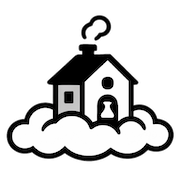
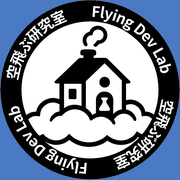
ロゴアイコンを青バッジ版に差し替え アプリ構成の更新とコメント内タグの修正

diff --git a/ja/index.html b/ja/index.html
@@ -3,7 +3,13 @@
   「これはHTML5で書かれたWebページです」とブラウザに伝える宣言です。
   この行がないとブラウザが古い互換モードで描画し、レイアウトが崩れることがあります。
 -->
-<!-- <html> タグ：ページ全体を囲む最外側のタグ
+<!-- 変更: コメント内に書いていた生のタグ（山かっこ付き）を、タグ名だけの表記に改めました。
+     理由: 正規表現でHTMLを走査するツール（SNSのリンク展開ボットや一部のSEOクローラー）は
+           コメントを読み飛ばさないため、コメント内のタグを本物と誤認することがあります。
+           ブラウザの解釈には影響しませんが、誤読の芽を残さないための予防措置です。
+           以前ボディ終了タグをコメント内に書いて不具合が出た件と、同じ対処方針です。
+           このコメント自身も同じ轍を踏まないよう、タグは山かっこを使わずに書いています。 -->
+<!-- html タグ：ページ全体を囲む最外側のタグ
   - lang="ja"       → このページの主要言語が日本語であることを宣言。
                       スクリーンリーダー（視覚障害者向け読み上げソフト）や
                       翻訳ツールが正しく動作するために重要。
@@ -11,7 +17,8 @@
   - id="top"        → フッターの「↑ TOP」リンクから #top へ戻るためのアンカー。
 -->
 <html lang="ja" prefix="og: https://ogp.me/ns#" id="top">
-<!-- <head> セクション
+<!-- 変更: 生のタグ表記をタグ名だけに改めました（理由は上のコメントを参照） -->
+<!-- head セクション
   ページの「見えない情報」を書く場所です。
   ブラウザや検索エンジン・SNSへの指示をまとめています。
   ここに書いた内容は画面には表示されません。
@@ -32,7 +39,9 @@
   <!-- ===== 基本SEOタグ =====
     SEO（Search Engine Optimization）＝検索エンジン最適化
     Googleなどの検索結果に正しく表示されるための情報を設定します。
-    <title> : ブラウザのタブやGoogleの検索結果に表示されるページタイトル。
+    変更: ここに生の title タグを書いていたため、正規表現でHTMLを読むツールが
+          本物のタイトルより先にこのコメントを拾ってしまう状態でした。タグ名だけの表記に改めます。
+    title タグ : ブラウザのタブやGoogleの検索結果に表示されるページタイトル。
     SEOで最も重要なタグのひとつです。
   -->
   <!-- 変更: 日本語ページのブランド統一のため「空飛ぶ研究室」一本に（旧「空飛ぶ研究室（Flying Dev Lab）」） -->
@@ -42,11 +51,20 @@
     Googleが必ずしもこの文章を使うとは限りませんが、設定しておくのがベストプラクティスです。
   -->
   <!-- 変更: 説明文から「（Flying Dev Lab）」を削除し「空飛ぶ研究室」に統一 -->
+  <!-- 変更: アプリ構成の変化に合わせて後半を更新しました。
+       旧: 末尾がこども向けの計算ゲーム1本の紹介になっていました。
+       理由: 該当アプリは App Store 上で「MAKE10 - Kids Game Collection」に改称され、
+             算数パズル単体からゲーム集へ性格が変わりました。さらに一般向けの
+             PriceWise が公開され、こども向けアプリ1本という前提が実態と合わなくなったためです。
+       ※ アプリ名は apps.js の表記（キッズゲームコレクション / PriceWise / 単価比べ）に揃えています。 -->
   <meta name="description"
-    content="空飛ぶ研究室は、こどもも大人も笑顔になる安心・安全・便利なアプリを開発しています。未就学児向け足し算ゲーム「MAKE10 / 10をつくろう(iOS)」など。">
+    content="空飛ぶ研究室は、こどもも大人も笑顔になる安心・安全・便利なアプリを開発しています。こども向けの「キッズゲームコレクション」、単価比較の「PriceWise / 単価比べ」など。">
   <!-- Google は keywords メタタグを検索ランキングに使用しないが、他の検索エンジン向けに残している -->
   <!-- 変更: keywords から「Flying Dev Lab」を削除（日本語ページのブランド統一） -->
-  <meta name="keywords" content="iOSアプリ,アプリ,こども向けアプリ,知育アプリ,足し算ゲーム,空飛ぶ研究室,個人開発,indeidev,インディーデベロッパー">
+  <!-- 変更: 算数ゲーム単体を指していた語を外し、現在のラインナップに対応する語を
+       追加しました（キッズゲーム / 単価計算 / 技術者向けアプリ）。
+       あわせて綴り間違いを1件修正しています（indie の綴りが誤っていました）。 -->
+  <meta name="keywords" content="iOSアプリ,アプリ,こども向けアプリ,知育アプリ,キッズゲーム,単価計算,技術者向けアプリ,空飛ぶ研究室,個人開発,indiedev,インディーデベロッパー">
   <!-- author : ページの作者・制作者名。SEO直接効果は薄いが明示しておくのがマナー。 -->
   <!-- 変更: 「空飛ぶ研究室」に統一（旧「空飛ぶ研究室（Flying Dev Lab）」） -->
   <meta name="author" content="空飛ぶ研究室">
@@ -89,7 +107,8 @@
   <meta property="og:type" content="website">
   <meta property="og:url" content="https://flyingdevlab.com/ja/">
   <meta property="og:title" content="空飛ぶ研究室">                                <!-- 変更: 「空飛ぶ研究室」に統一 -->
-  <meta property="og:description" content="こどもも大人も笑顔になる安心・安全・便利なアプリを開発しています。未就学児向け足し算ゲーム「MAKE10 / 10をつくろう」など。">
+  <!-- 変更: description と同じ理由でアプリ名を差し替えました。 -->
+  <meta property="og:description" content="こどもも大人も笑顔になる安心・安全・便利なアプリを開発しています。こども向けの「キッズゲームコレクション」、単価比較の「PriceWise / 単価比べ」など。">
   <meta property="og:image" content="https://flyingdevlab.com/ogp.png">
   <meta property="og:image:width" content="1200">
   <meta property="og:image:height" content="630">
@@ -185,7 +204,8 @@
        /ja/ は1階層深いため、相対パス（style.css）だと /ja/style.css を探してしまい読み込めない。 -->
   <link rel="stylesheet" href="/style.css">
 </head>
-<!-- <body> セクション
+<!-- 変更: 生のタグ表記をタグ名だけに改めました（理由はファイル冒頭のコメントを参照） -->
+<!-- body セクション
   ここからがブラウザに実際に表示される内容です。
   大きく「ヘッダー → メイン → フッター」という構造になっています。
 -->
@@ -387,7 +407,8 @@
         <span class="x-icon" aria-hidden="true">Instagram</span>
       </a>
     </div>
-    <!-- ページ先頭へ戻るリンク。href="#top" は <html id="top"> へジャンプします。 -->
+    <!-- 変更: 生のタグ表記をタグ名だけに改めました（理由はファイル冒頭のコメントを参照） -->
+    <!-- ページ先頭へ戻るリンク。href="#top" は html タグの id="top" へジャンプします。 -->
     <a href="#top" class="footer-top" aria-label="ページの先頭へ">↑ TOP</a>
     <!-- legal：プライバシーポリシーと特定商取引法ページへのリンク。
          この日本語ページでは特商法リンクも残しています（日本国内向けのため）。

diff --git a/index.html b/index.html
@@ -3,7 +3,13 @@
   「これはHTML5で書かれたWebページです」とブラウザに伝える宣言です。
   この行がないとブラウザが古い互換モードで描画し、レイアウトが崩れることがあります。
 -->
-<!-- <html> タグ：ページ全体を囲む最外側のタグ
+<!-- 変更: コメント内に書いていた生のタグ（山かっこ付き）を、タグ名だけの表記に改めました。
+     理由: 正規表現でHTMLを走査するツール（SNSのリンク展開ボットや一部のSEOクローラー）は
+           コメントを読み飛ばさないため、コメント内のタグを本物と誤認することがあります。
+           ブラウザの解釈には影響しませんが、誤読の芽を残さないための予防措置です。
+           以前ボディ終了タグをコメント内に書いて不具合が出た件と、同じ対処方針です。
+           このコメント自身も同じ轍を踏まないよう、タグは山かっこを使わずに書いています。 -->
+<!-- html タグ：ページ全体を囲む最外側のタグ
   - lang="en"       → このページの主要言語が英語であることを宣言。
                       スクリーンリーダー（視覚障害者向け読み上げソフト）や
                       翻訳ツールが正しく動作するために重要。
@@ -11,7 +17,8 @@
   - id="top"        → フッターの「↑ TOP」リンクから #top へ戻るためのアンカー。
 -->
 <html lang="en" prefix="og: https://ogp.me/ns#" id="top">
-<!-- <head> セクション
+<!-- 変更: 生のタグ表記をタグ名だけに改めました（理由は上のコメントを参照） -->
+<!-- head セクション
   ページの「見えない情報」を書く場所です。
   ブラウザや検索エンジン・SNSへの指示をまとめています。
   ここに書いた内容は画面には表示されません。
@@ -32,7 +39,9 @@
   <!-- ===== 基本SEOタグ =====
     SEO（Search Engine Optimization）＝検索エンジン最適化
     Googleなどの検索結果に正しく表示されるための情報を設定します。
-    <title> : ブラウザのタブやGoogleの検索結果に表示されるページタイトル。
+    変更: ここに生の title タグを書いていたため、正規表現でHTMLを読むツールが
+          本物のタイトルより先にこのコメントを拾ってしまう状態でした。タグ名だけの表記に改めます。
+    title タグ : ブラウザのタブやGoogleの検索結果に表示されるページタイトル。
     SEOで最も重要なタグのひとつです。
   -->
   <title>Flying Dev Lab</title>
@@ -40,10 +49,22 @@
     クリック率に影響するため、内容を簡潔にアピールする文章を入れます。
     Googleが必ずしもこの文章を使うとは限りませんが、設定しておくのがベストプラクティスです。
   -->
+  <!-- 変更: アプリ構成の変化に合わせて説明文を更新しました。
+       旧: 末尾が「MAKE10」という算数ゲーム1本の紹介になっていました。
+       理由: MAKE10 は App Store 上で「MAKE10 - Kids Game Collection」に改称され、
+             算数パズル単体からゲーム集へ性格が変わりました。さらに一般向けの
+             PriceWise が公開され、こども向けアプリ1本という前提が実態と合わなくなったためです。
+       ※ 検索結果でのスニペット切れを避けるため、全体を155文字以内に収めています。 -->
   <meta name="description"
-    content="Flying Dev Lab builds safe, reliable, and delightful iOS apps that bring smiles to kids and grown-ups alike — including MAKE10, an addition game for preschoolers.">
+    content="Flying Dev Lab builds safe, reliable, and delightful iOS apps that bring smiles to kids and grown-ups alike — including Kids Game Collection and PriceWise.">
   <!-- Google は keywords メタタグを検索ランキングに使用しないが、他の検索エンジン向けに残している -->
-  <meta name="keywords" content="iOS apps, kids apps, educational apps, math games, addition game, Flying Dev Lab, indie developer, indie dev, privacy-friendly apps, ad-free apps">
+  <!-- 変更: 算数ゲーム単体を指す語を外し、現在のラインナップに対応する語を追加しました。
+       理由: こども向けの計算ゲーム1本という前提が実態と合わなくなったためです。
+             「kids games」（ゲーム集）、「unit price calculator」（PriceWise）、
+             「engineering reference」（TechRef）を追加しています。
+       ※ 「ad-free apps」は残しています。広告なしの無料アプリが実在するため
+          記述として誤りではなく、また keywords は利用者の目に触れないタグです。 -->
+  <meta name="keywords" content="iOS apps, kids apps, kids games, educational apps, math games, unit price calculator, engineering reference, Flying Dev Lab, indie developer, indie dev, privacy-friendly apps, ad-free apps">
   <!-- author : ページの作者・制作者名。SEO直接効果は薄いが明示しておくのがマナー。 -->
   <!-- 変更: 英語ページのブランド統一のため Flying Dev Lab に（旧「空飛ぶ研究室（Flying Dev Lab）」） -->
   <meta name="author" content="Flying Dev Lab">
@@ -88,7 +109,9 @@
   <meta property="og:type" content="website">
   <meta property="og:url" content="https://flyingdevlab.com/">
   <meta property="og:title" content="Flying Dev Lab">
-  <meta property="og:description" content="Safe, reliable, and delightful iOS apps that bring smiles to kids and grown-ups alike — including MAKE10, an addition game for preschoolers.">
+  <!-- 変更: description と同じ理由でアプリ名を差し替えました。
+       ※ OGP は検索結果と違い文字数の制約が緩いため、description より具体的に書いています。 -->
+  <meta property="og:description" content="Safe, reliable, and delightful iOS apps that bring smiles to kids and grown-ups alike — including Kids Game Collection, a free game app for children, and PriceWise, a unit price comparison tool.">
   <meta property="og:image" content="https://flyingdevlab.com/ogp.png">
   <meta property="og:image:width" content="1200">
   <meta property="og:image:height" content="630">
@@ -187,7 +210,8 @@
        preconnect（事前接続）も外部接続を伴うため、あわせて削除した。 -->
   <link rel="stylesheet" href="style.css">
 </head>
-<!-- <body> セクション
+<!-- 変更: 生のタグ表記をタグ名だけに改めました（理由はファイル冒頭のコメントを参照） -->
+<!-- body セクション
   ここからがブラウザに実際に表示される内容です。
   大きく「ヘッダー → メイン → フッター」という構造になっています。
 -->
@@ -443,7 +467,8 @@
       </a>
     
     </div>
-    <!-- ページ先頭へ戻るリンク。href="#top" は <html id="top"> へジャンプします。
+    <!-- 変更: 生のタグ表記をタグ名だけに改めました（理由はファイル冒頭のコメントを参照） -->
+    <!-- ページ先頭へ戻るリンク。href="#top" は html タグの id="top" へジャンプします。
     ページが縦に長くなった場合、有効です。 -->
     <a href="#top" class="footer-top" aria-label="ページの先頭へ">↑ TOP</a>
     <!-- legal：プライバシーポリシーページへのリンク。

diff --git a/style.css b/style.css
@@ -365,7 +365,7 @@ header {
 header::before {
   content: '';
   position: absolute;
-  top: -60px; right: -60px;
+  top: -140px; right: -140px;   /* 変更: -60px → -140px でロゴから逃がす */
   width: 240px; height: 240px;
   background: rgba(255, 255, 255, 0.04);
   border-radius: 50%;
